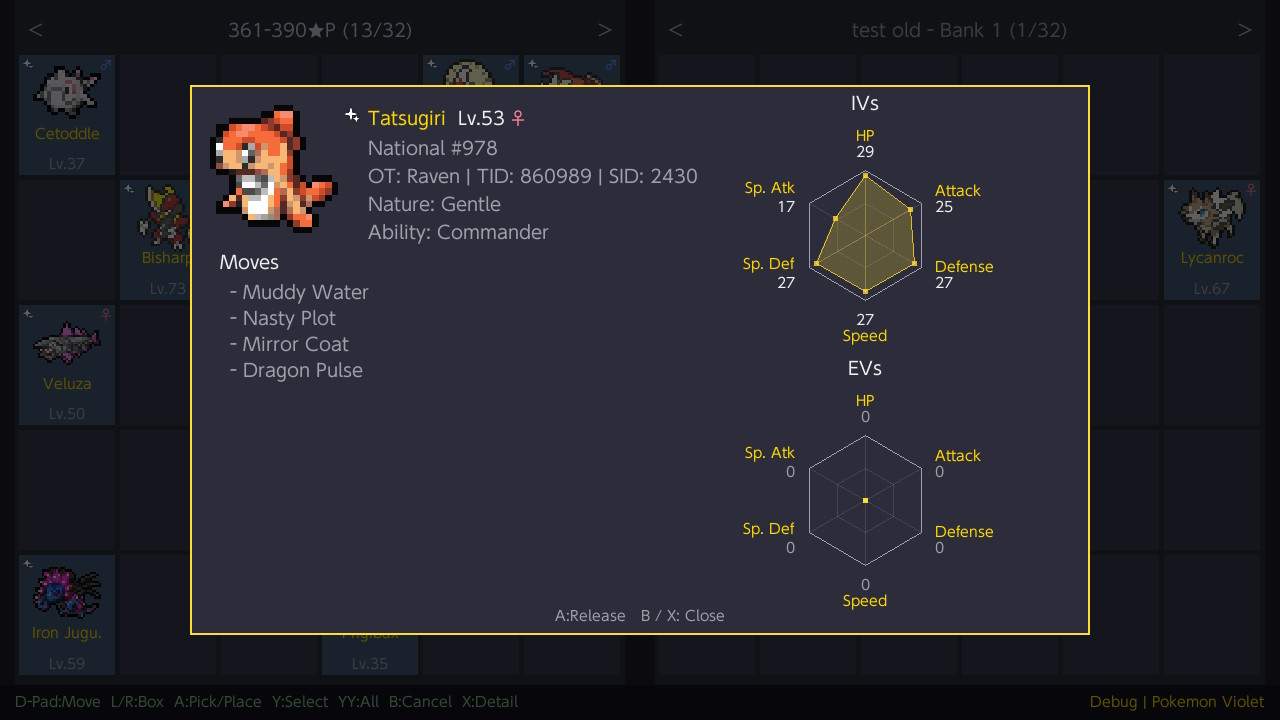
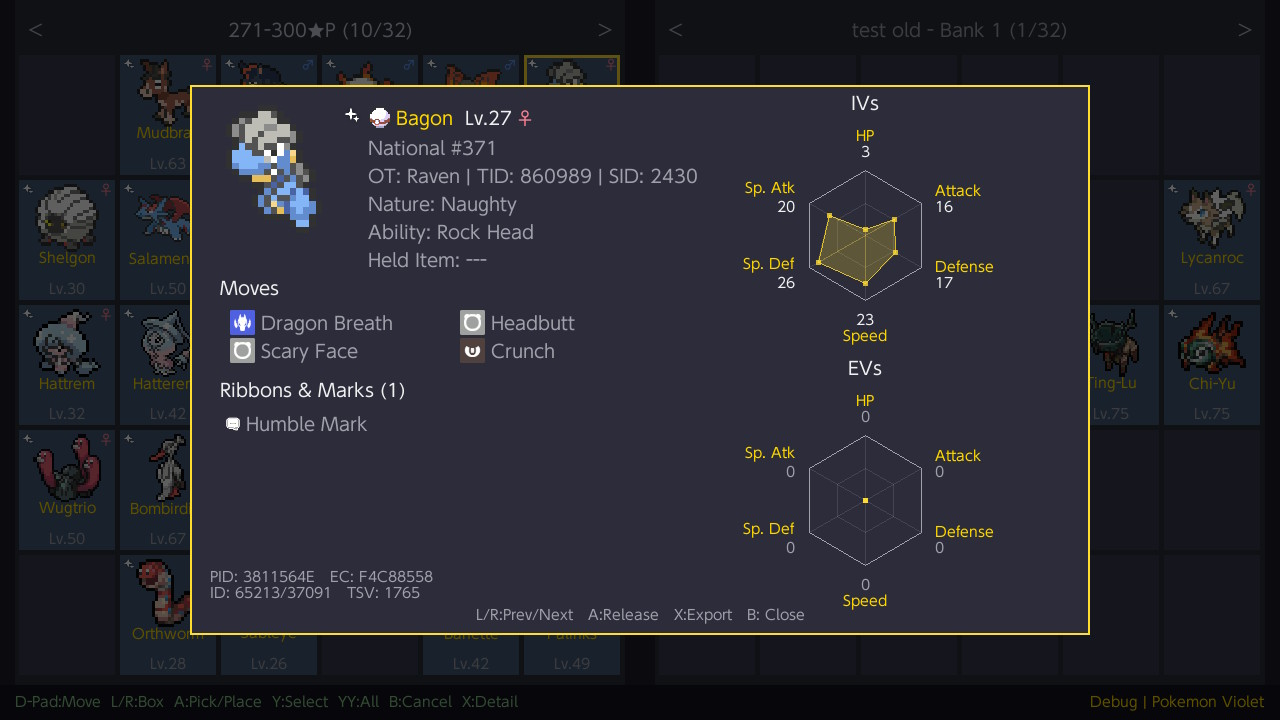
feat: update README with additional Pokémon details and layout enhancements

diff --git a/README.md b/README.md
@@ -84,15 +84,16 @@ Press **A** to jump directly to that box, **Y** to rename the box (bank boxes on
 
 Press **X** on any Pokemon to view detailed information:
 
-- Species, level, gender
+- Catch ball icon and species name, level, gender
 - National Pokedex number
 - Original Trainer (OT) and Trainer ID
 - Nature and Ability
-- Held item
-- All 4 moves
+- Held item (or "---" if none)
+- All 4 moves with type icons (2x2 grid layout)
 - IVs displayed as a hexagonal radar chart (perfect 31s highlighted in gold)
 - EVs displayed as a hexagonal radar chart
 - Ribbons and marks (displayed as sprite icons with names)
+- Technical data: PID, EC, raw TID/SID, and TSV
 
 Shiny Pokemon names are displayed in gold. Alpha Pokemon (Legends: Arceus / Z-A) show a dedicated icon.
 
